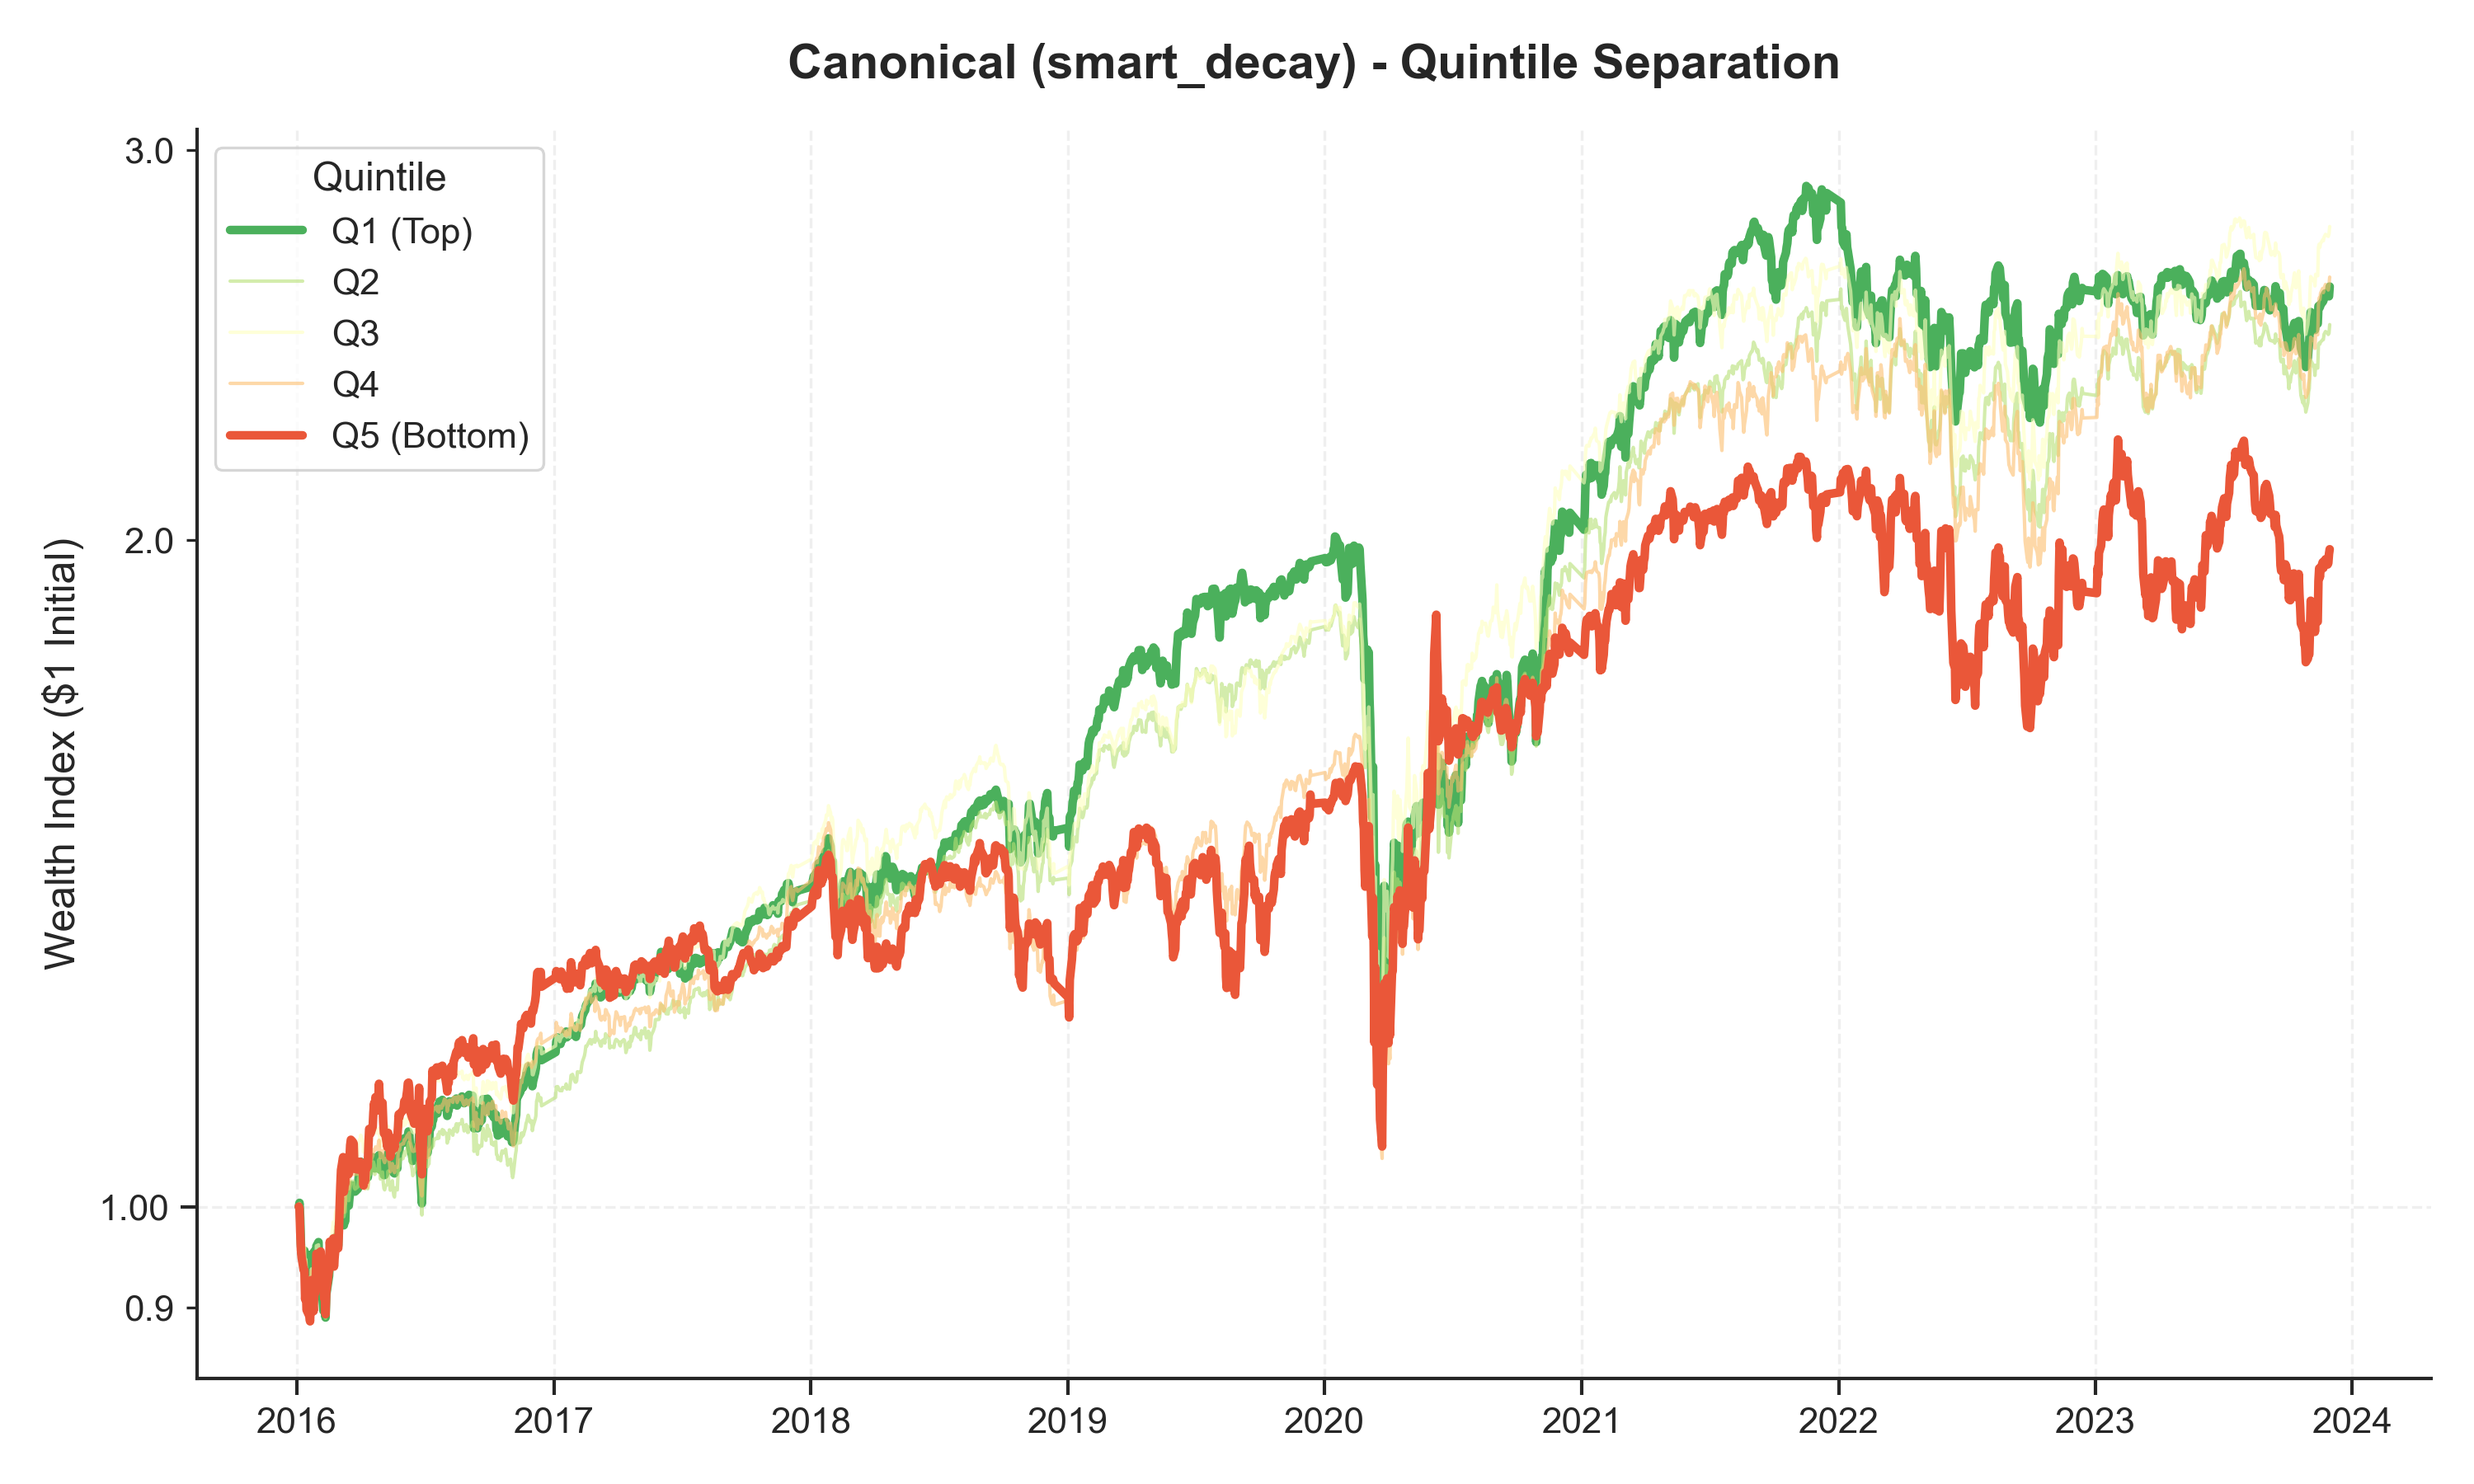
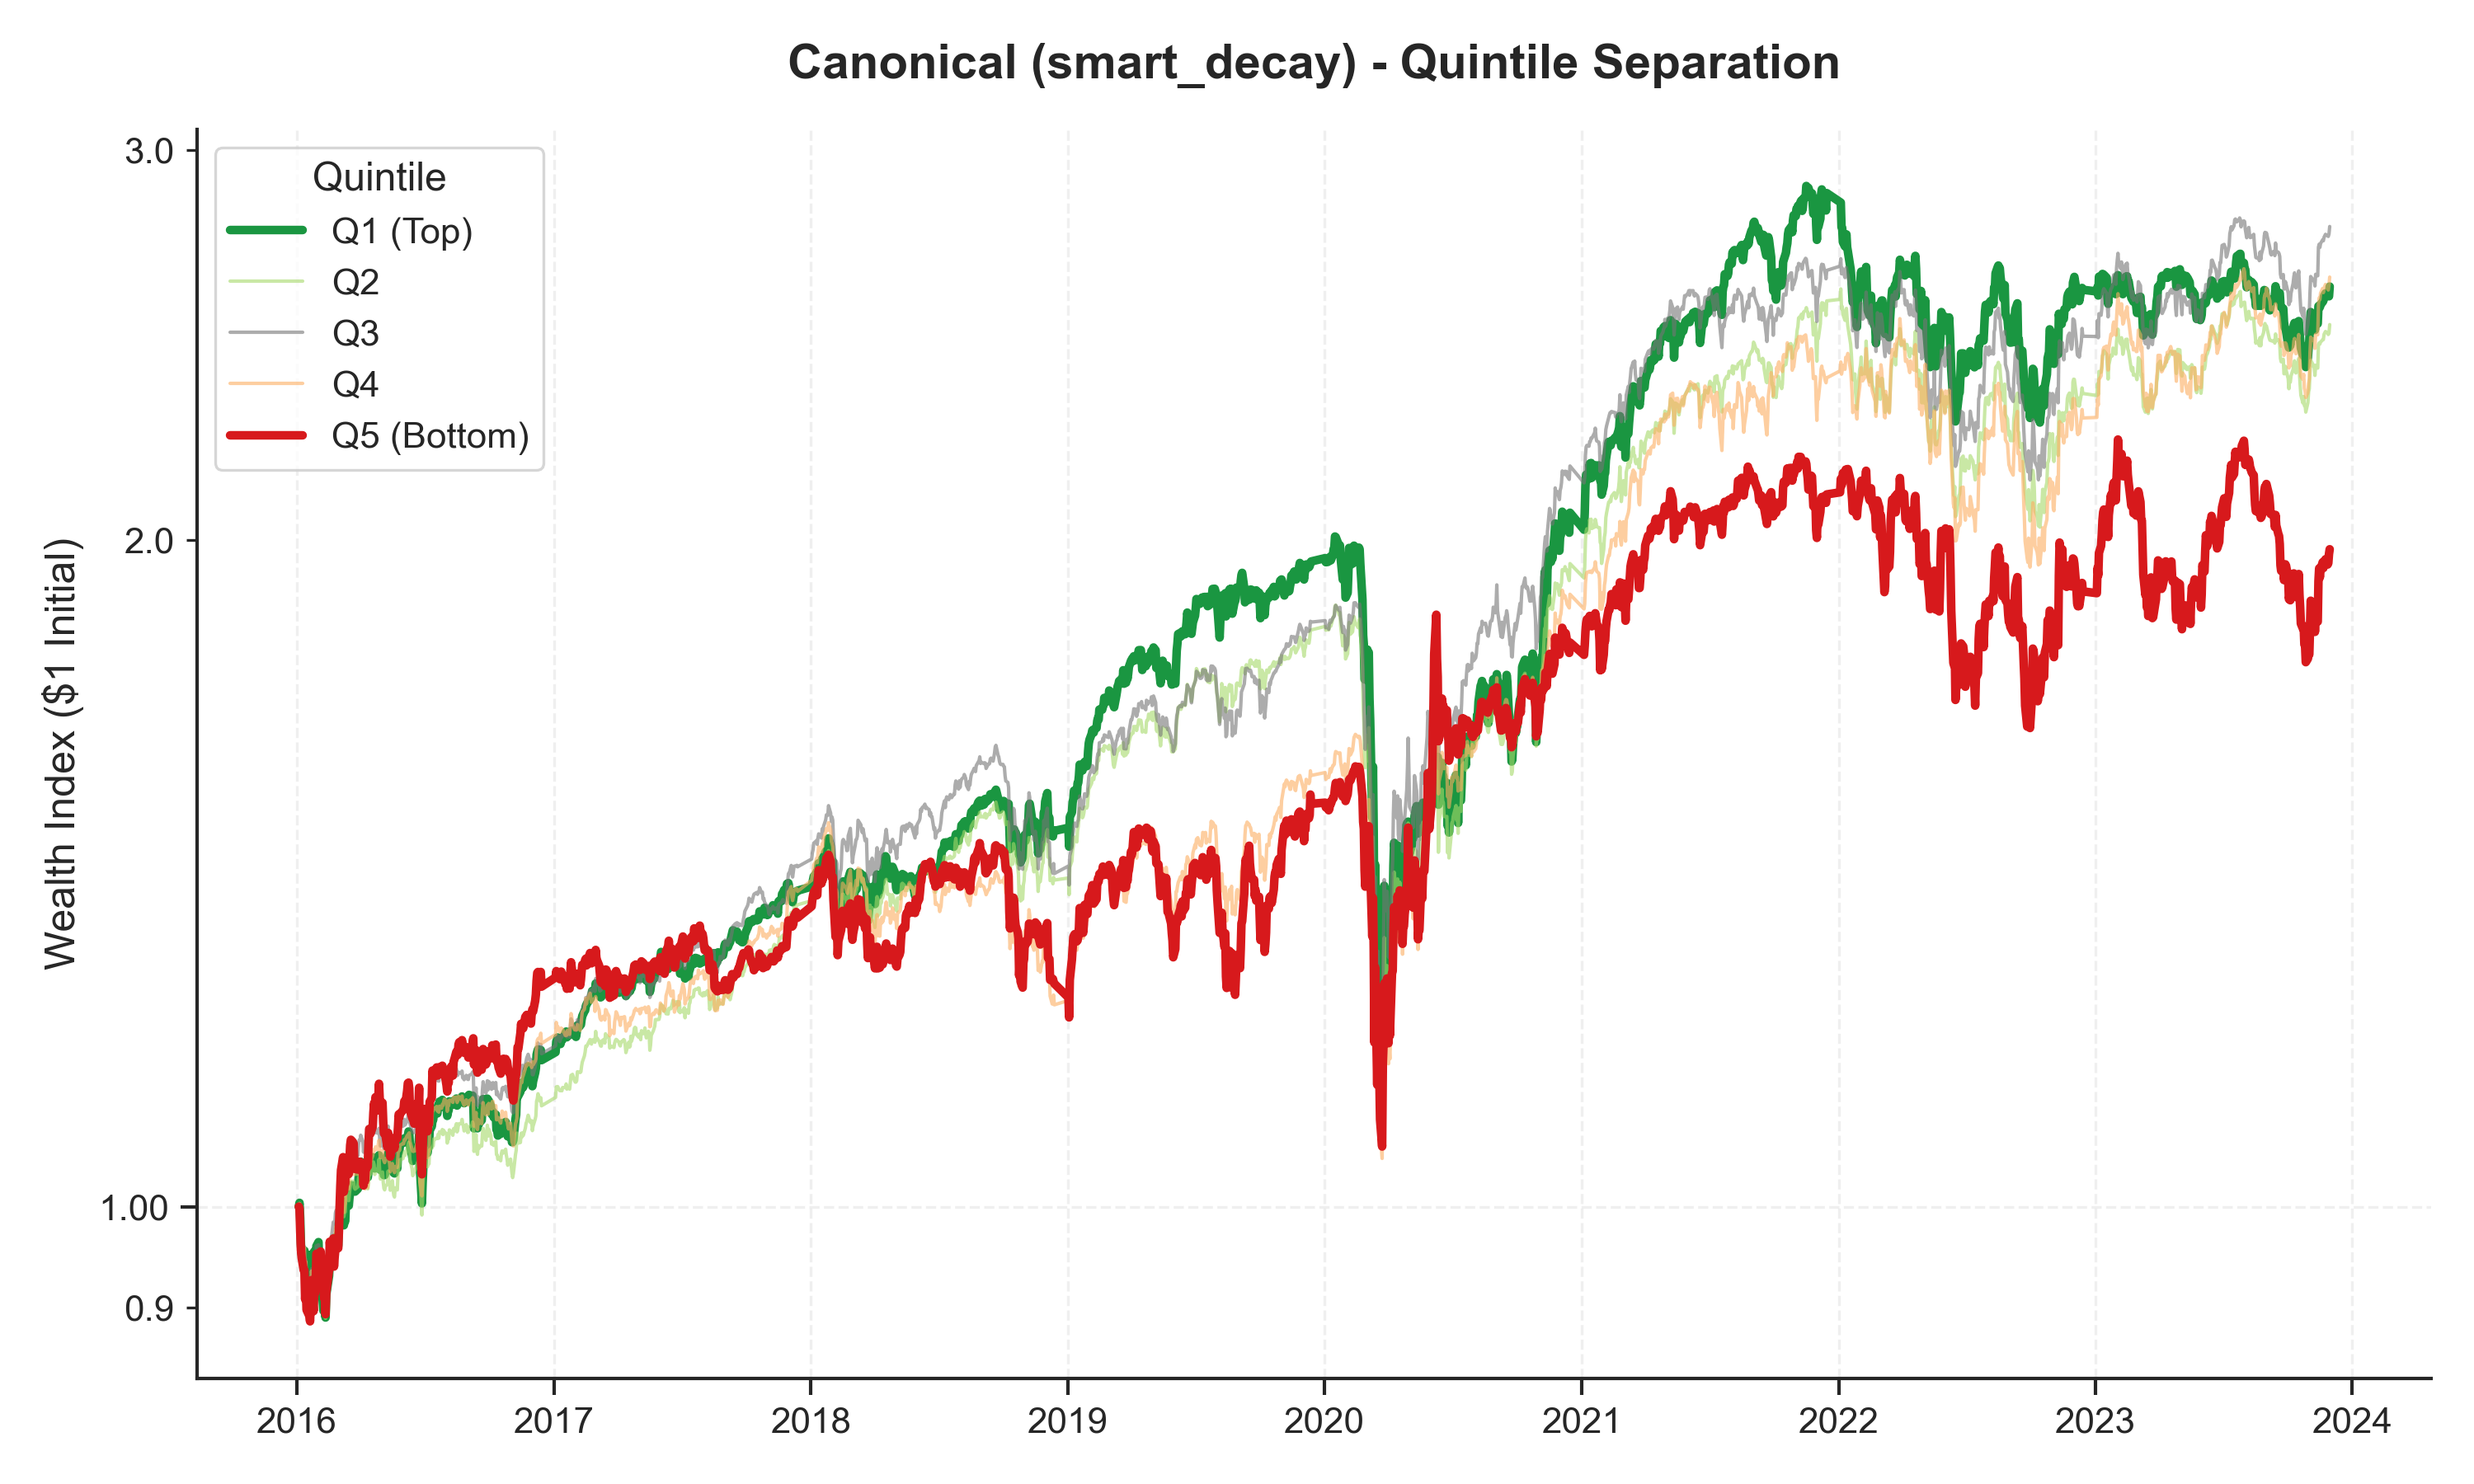
Refining graphs

Changed region(s): [[0.093, 0.1244, 0.961, 0.9022], [0.093, 0.28, 0.124, 0.3111], [0.093, 0.1244, 0.124, 0.1556]]

diff --git a/src/evaluation/portfolio/quantile_analysis.py b/src/evaluation/portfolio/quantile_analysis.py
@@ -45,7 +45,13 @@ def plot_quintiles_scientific(df_quantiles: pd.DataFrame, title: str, save_path)
     
     fig, ax = plt.subplots(figsize=(10, 6))
     
-    colors = sns.color_palette("RdYlGn", n_colors=len(cum_ret.columns))[::-1] 
+    colors = [
+        "#1a9641", # Q1: Deep Green
+        "#a6d96a", # Q2: Light Green
+        "#757575", # Q3: Neutral Grey
+        "#fdae61", # Q4: Orange
+        "#d7191c"  # Q5: Deep Red
+    ]
     
     for i, col in enumerate(cum_ret.columns):
         is_edge = (i == 0) or (i == len(cum_ret.columns) - 1)
